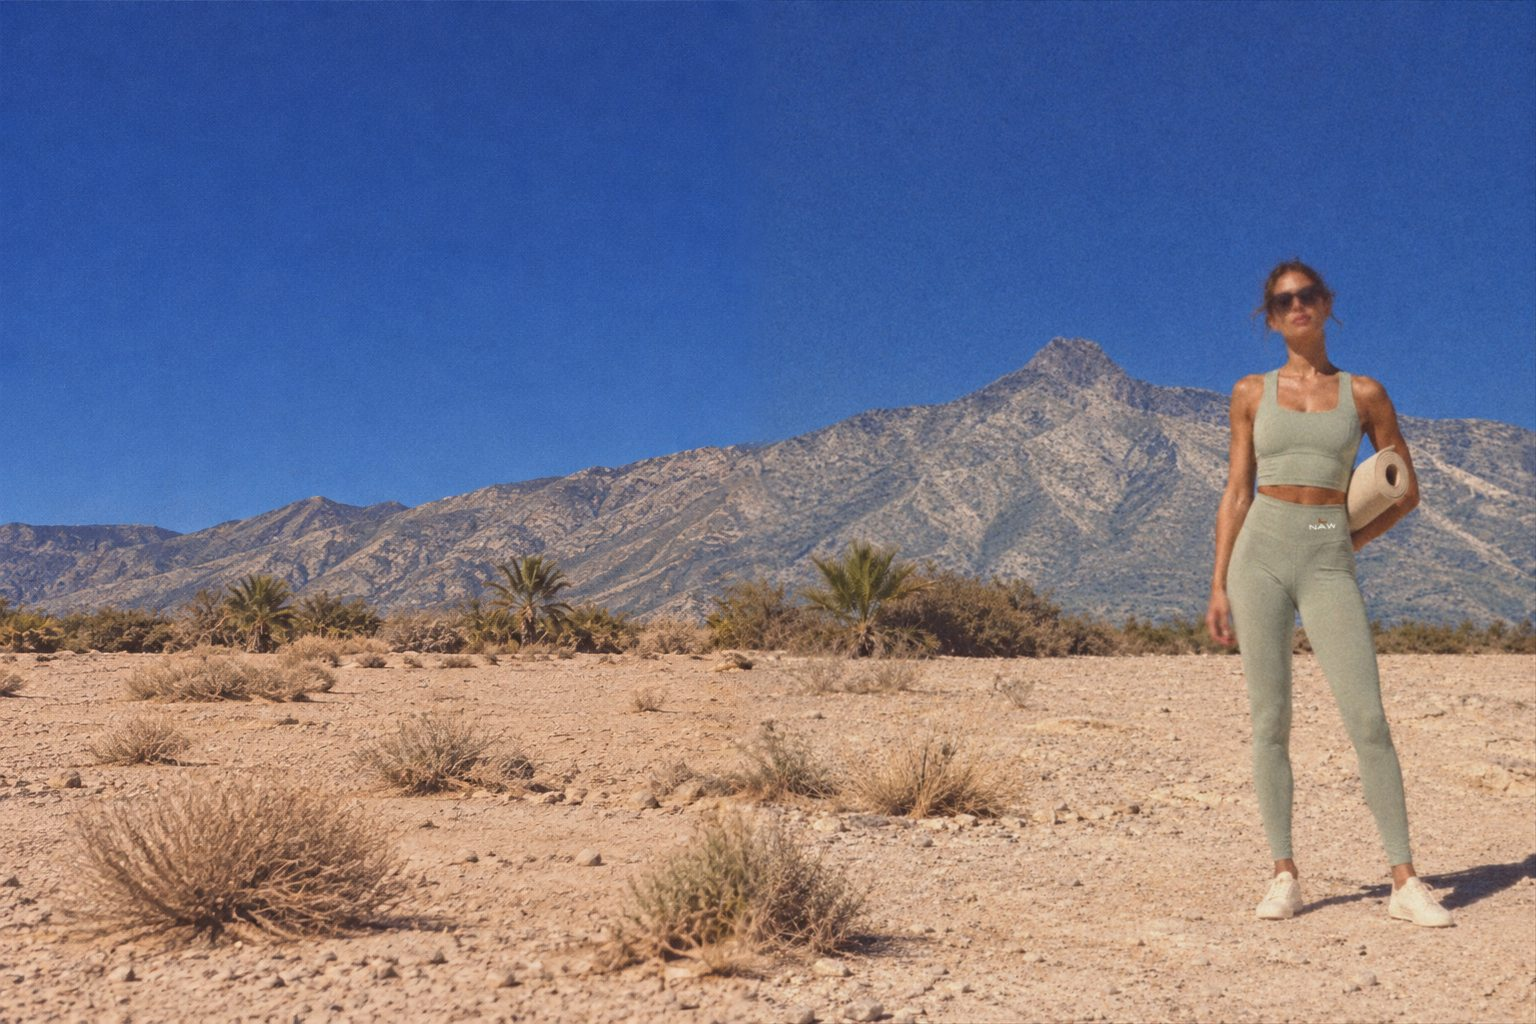
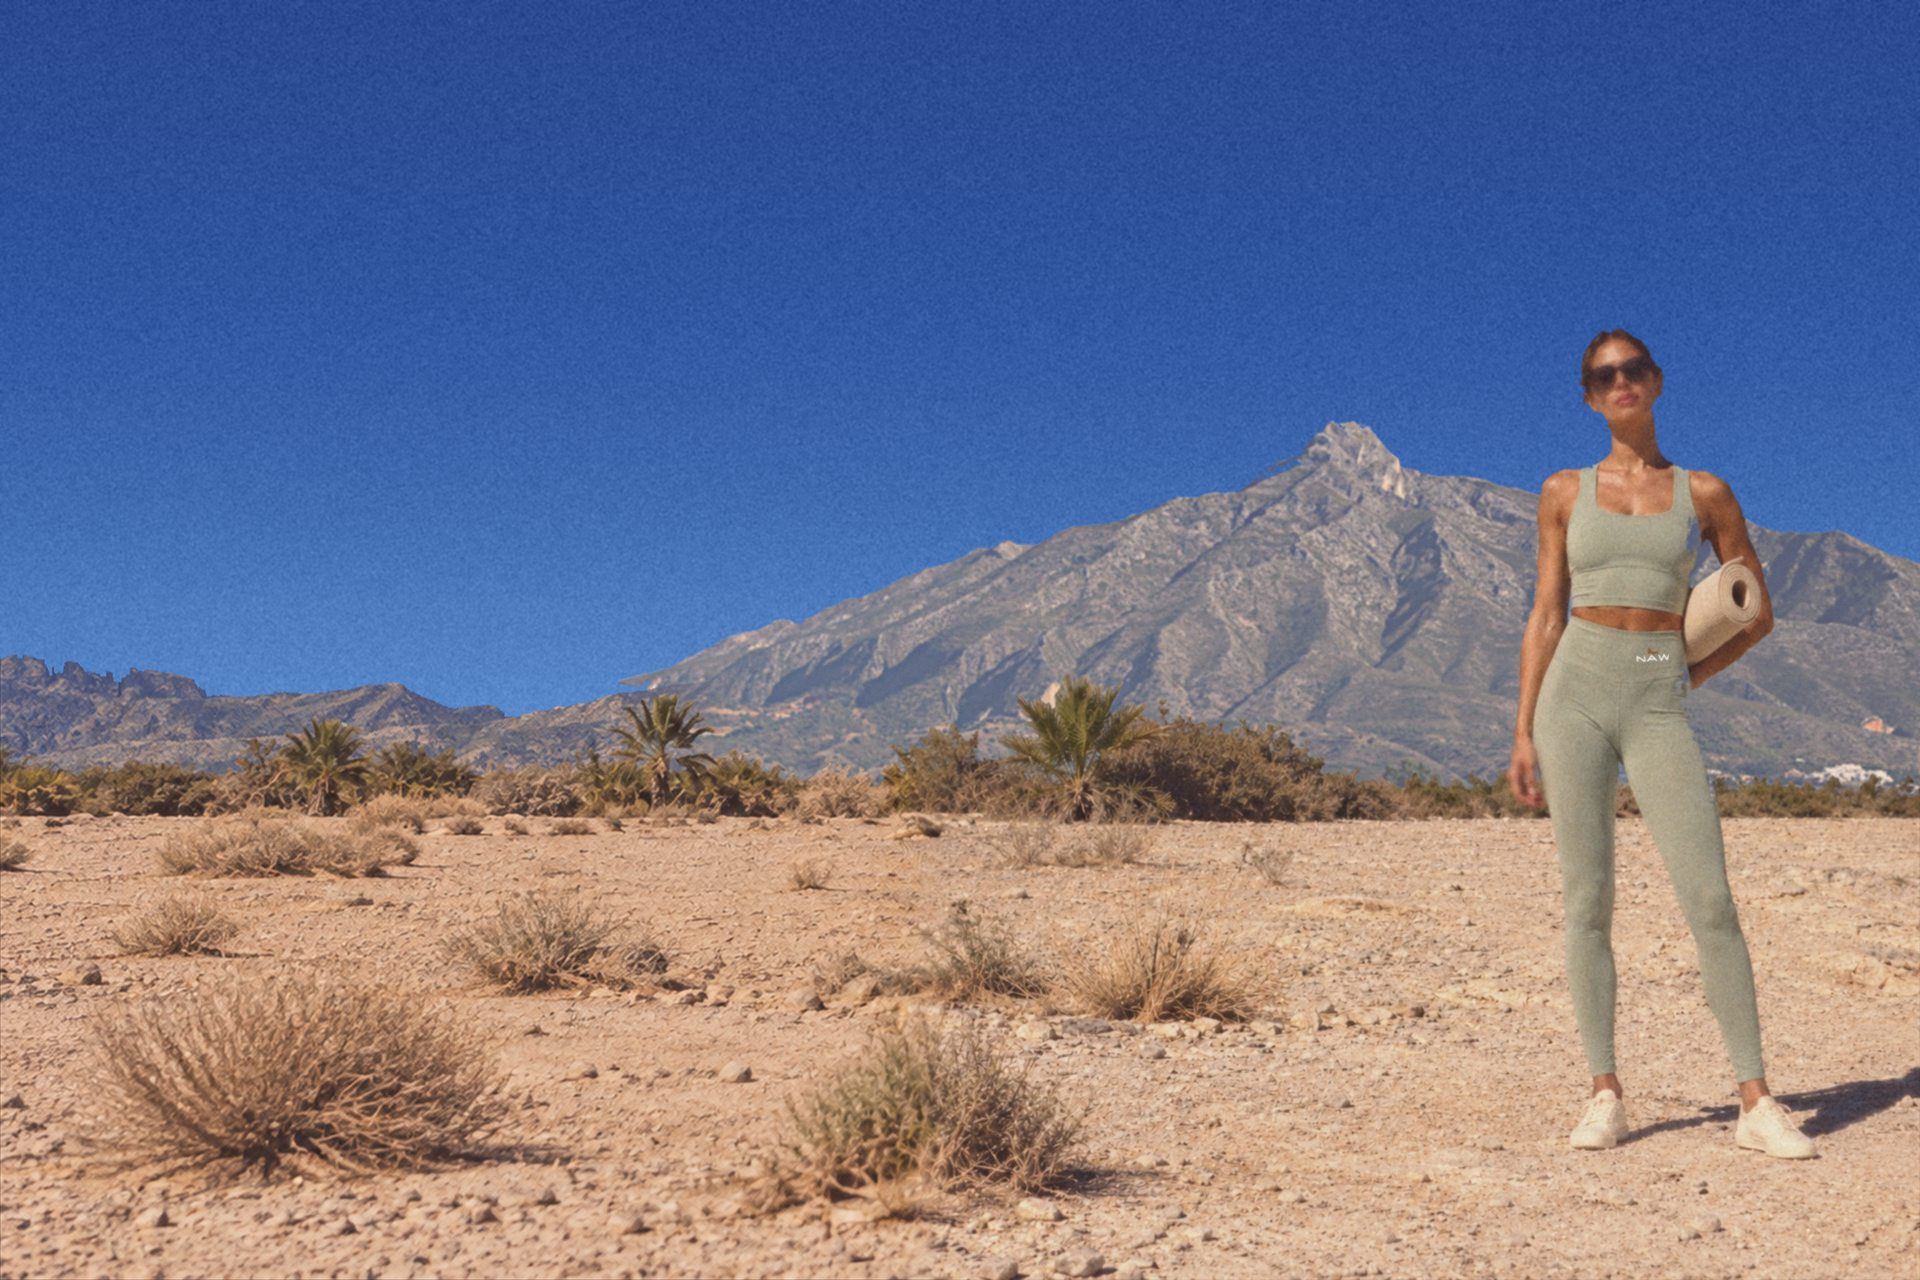
Tienda: La Concha real en las portadas, sillón crema y galería cuadrada
La montaña de la foto de portada pasa a ser la foto real de La Concha.
El sillón pasa a cuero crema como el cojín. La galería de la ficha ya no separa las filas.

diff --git a/tienda/index.html b/tienda/index.html
@@ -140,7 +140,7 @@ button { cursor: pointer; -webkit-tap-highlight-color: transparent; }
 
 /* Product page */
 .pdp { display: grid; grid-template-columns: minmax(0, 1.35fr) minmax(0, 1fr); gap: clamp(28px, 4vw, 64px); padding-block: 20px 72px; }
-.gal { display: grid; grid-template-columns: 1fr 1fr; gap: 8px; }
+.gal { display: grid; grid-template-columns: 1fr 1fr; gap: 8px; align-self: start; align-content: start; }
 .gal .media { aspect-ratio: 4 / 5; }
 .info { position: sticky; top: 96px; align-self: start; display: grid; gap: 20px; }
 .info .double { font-size: clamp(44px, 4.4vw, 64px); }
@@ -226,7 +226,7 @@ main { padding-bottom: 96px; }
   var P = {
     black: {
       key: 'black', first: 'Black', title: 'Black set', price: '€95', swatch: '#141414', other: 'matcha', figure: 'gold',
-      gallery: [['img/black-back.jpg', 'The black top turned over: the teardrop cut-out with the NAW logo below, the leggings beside it'], ['img/black-front.jpg', 'The black NAW set on cream boucle, the top seen from the front, plain'], ['img/black-chair-v2.jpg', 'The black set on a cognac leather armchair with a cream leather cushion, the top showing its back and logo'], ['img/black-back-v2.jpg', 'The black set laid out casually on cream boucle, the top face down with the logo under the cut-out']]
+      gallery: [['img/black-back.jpg', 'The black top turned over: the teardrop cut-out with the NAW logo below, the leggings beside it'], ['img/black-front.jpg', 'The black NAW set on cream boucle, the top seen from the front, plain'], ['img/black-chair-v3.jpg', 'The black set on a cream leather armchair with a matching cream leather cushion, the top showing its back and logo'], ['img/black-back-v2.jpg', 'The black set laid out casually on cream boucle, the top face down with the logo under the cut-out']]
     },
     matcha: {
       key: 'matcha', first: 'Matcha', title: 'Matcha set', price: '€130', swatch: '#d3d9be', other: 'black', figure: 'copper',
